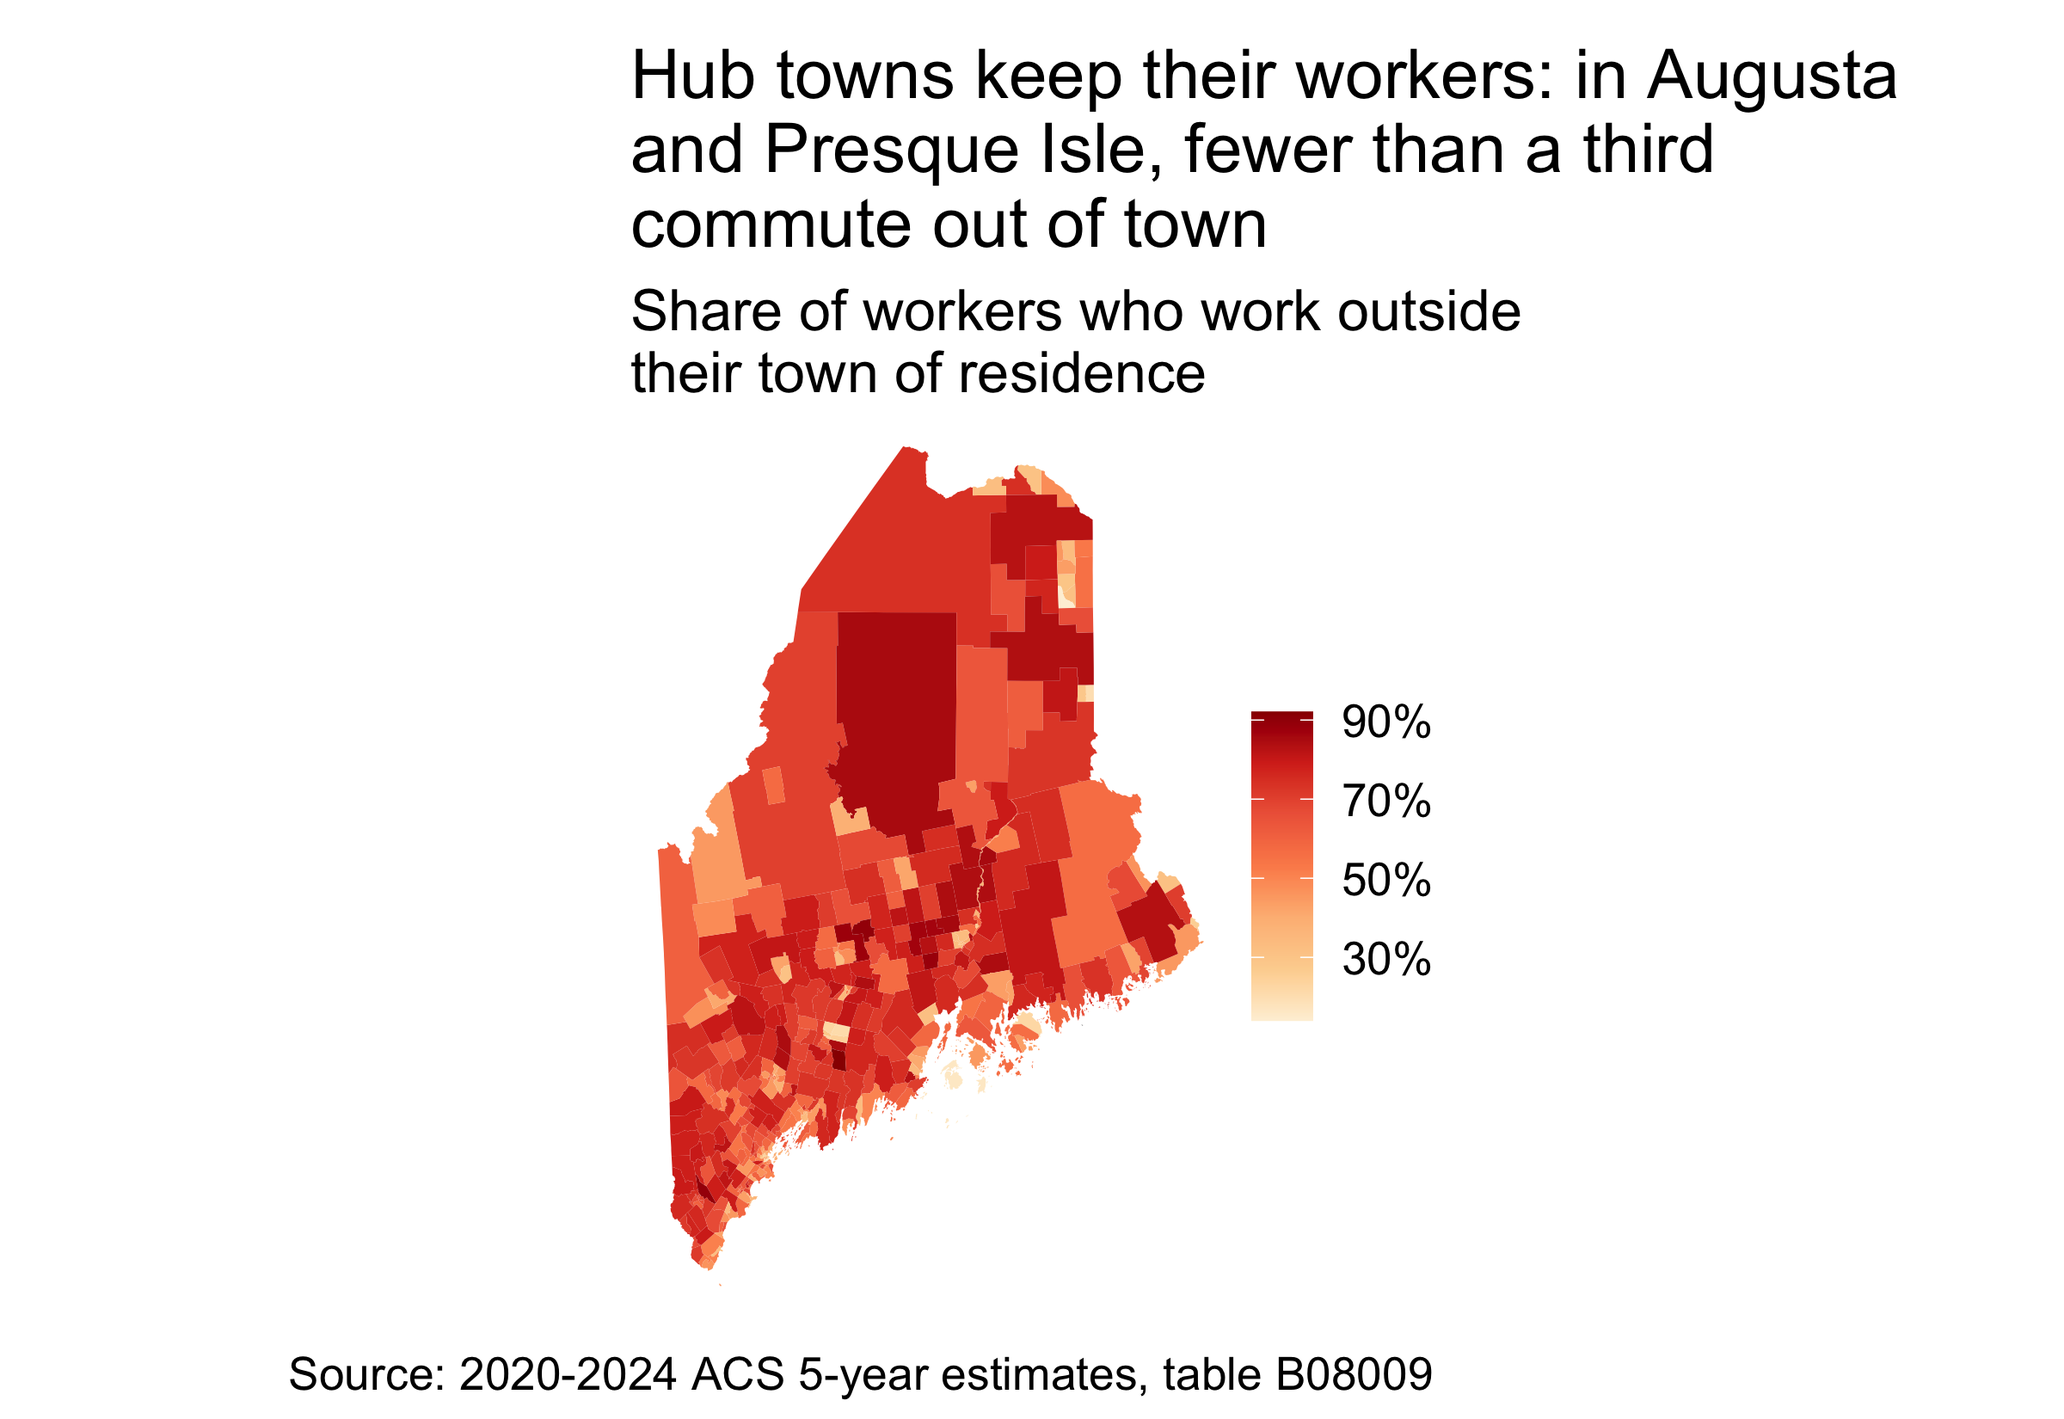
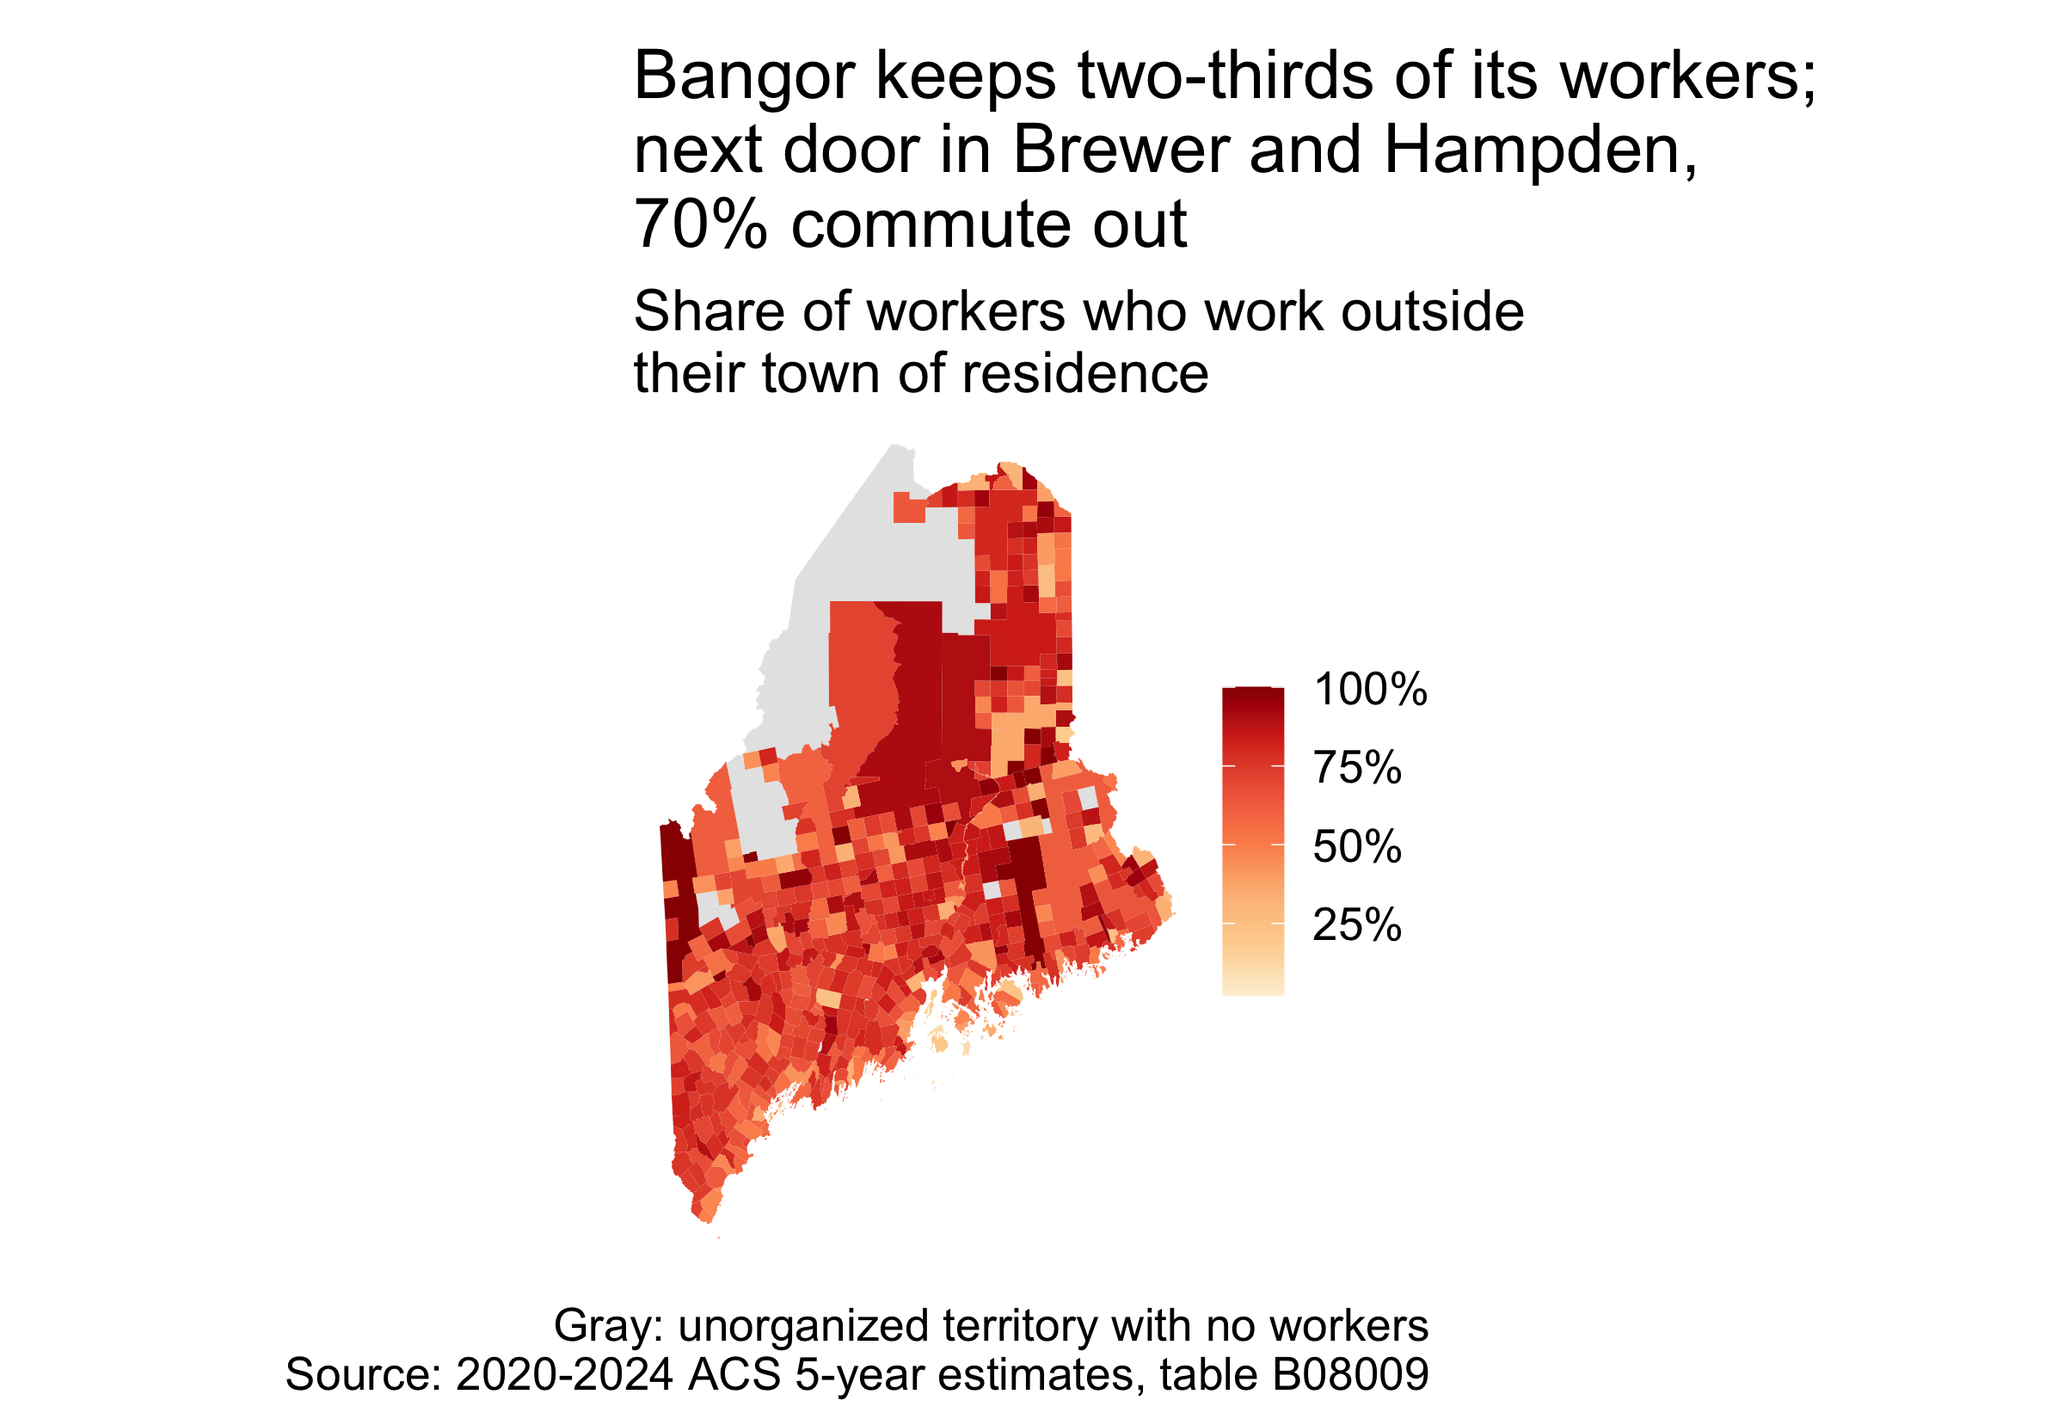
Week 9: Hub Services example uses county subdivisions only (tract version removed)

Changed region(s): [[0.3125, 0.3091, 0.6875, 0.8964], [0.3125, 0.0309, 0.9375, 0.2782], [0.125, 0.9273, 0.6875, 0.9891]]

diff --git a/docs/slides/week09.html b/docs/slides/week09.html
@@ -1234,7 +1234,7 @@ First 10 features:
 <li>NBRC’s service area is a subset of the counties in these states, so let’s trim this down</li>
 </ul>
 </section>
-<section id="which-counties-are-nbrc" class="slide level2">
+<section id="which-counties-are-nbrc" class="slide level2 smaller">
 <h2>Which Counties Are NBRC?</h2>
 <div class="cell" data-layout-align="center">
 <div class="code-copy-outer-scaffold"><div class="sourceCode cell-code" id="cb25"><pre class="sourceCode r code-with-copy"><code class="sourceCode r"><span id="cb25-1"><a aria-hidden="true" tabindex="-1"></a>nbrc_fips <span class="ot">&lt;-</span> <span class="fu">read_csv</span>(</span>
@@ -1260,7 +1260,7 @@ First 10 features:
 </div>
 
 </section>
-<section id="which-counties-are-nbrc-output" class="slide level2 output-location-slide"><h2>Which Counties Are NBRC?</h2><div class="cell output-location-slide" data-layout-align="center">
+<section id="which-counties-are-nbrc-output" class="slide level2 smaller output-location-slide"><h2>Which Counties Are NBRC?</h2><div class="cell output-location-slide" data-layout-align="center">
 <div class="cell-output-display">
 <div class="quarto-figure quarto-figure-center">
 <figure>
@@ -1295,7 +1295,6 @@ First 10 features:
 <li>Pull it with <code>get_acs()</code> for your state’s <strong>counties</strong>, with <code>geometry = TRUE</code></li>
 <li>Turn it into a share, not a count. You’ll need the table’s total line (usually <code>_001</code>) as the denominator.</li>
 <li>Make a choropleth with a readable palette, <code>theme_void()</code>, a title that states what you see, and a source caption</li>
-<li>Change <code>geography</code> to <code>"tract"</code>. Does the story change?</li>
 <li>Look at your margins of error. Is any part of your story shakier than you’d like?</li>
 </ol>
 </section>
@@ -1336,8 +1335,8 @@ First 10 features:
 </div></section><section id="one-way-to-do-it-rural-hub-services" class="slide level2 smaller">
 <h2>One Way to Do It: Rural Hub Services</h2>
 <div class="cell" data-layout-align="center">
-<div class="code-copy-outer-scaffold"><div class="sourceCode cell-code" id="cb28"><pre class="sourceCode r code-with-copy"><code class="sourceCode r"><span id="cb28-1"><a aria-hidden="true" tabindex="-1"></a>me_commute_out <span class="ot">&lt;-</span> <span class="fu">get_acs</span>(</span>
-<span id="cb28-2"><a aria-hidden="true" tabindex="-1"></a>  <span class="at">geography =</span> <span class="st">"tract"</span>,</span>
+<div class="code-copy-outer-scaffold"><div class="sourceCode cell-code" id="cb28"><pre class="sourceCode r code-with-copy"><code class="sourceCode r"><span id="cb28-1"><a aria-hidden="true" tabindex="-1"></a>me_towns <span class="ot">&lt;-</span> <span class="fu">get_acs</span>(</span>
+<span id="cb28-2"><a aria-hidden="true" tabindex="-1"></a>  <span class="at">geography =</span> <span class="st">"county subdivision"</span>,</span>
 <span id="cb28-3"><a aria-hidden="true" tabindex="-1"></a>  <span class="at">state =</span> <span class="st">"ME"</span>,</span>
 <span id="cb28-4"><a aria-hidden="true" tabindex="-1"></a>  <span class="at">variables =</span> <span class="fu">c</span>(<span class="at">total =</span> <span class="st">"B08009_001"</span>, <span class="at">out_of_town =</span> <span class="st">"B08009_004"</span>),</span>
 <span id="cb28-5"><a aria-hidden="true" tabindex="-1"></a>  <span class="at">year =</span> <span class="dv">2024</span>,</span>
@@ -1346,16 +1345,25 @@ First 10 features:
 <span id="cb28-8"><a aria-hidden="true" tabindex="-1"></a>) <span class="sc">|&gt;</span></span>
 <span id="cb28-9"><a aria-hidden="true" tabindex="-1"></a>  <span class="fu">mutate</span>(<span class="at">out_share =</span> out_of_townE <span class="sc">/</span> totalE)</span>
 <span id="cb28-10"><a aria-hidden="true" tabindex="-1"></a></span>
-<span id="cb28-11"><a aria-hidden="true" tabindex="-1"></a><span class="fu">ggplot</span>(me_commute_out) <span class="sc">+</span></span>
+<span id="cb28-11"><a aria-hidden="true" tabindex="-1"></a><span class="fu">ggplot</span>(me_towns) <span class="sc">+</span></span>
 <span id="cb28-12"><a aria-hidden="true" tabindex="-1"></a>  <span class="fu">geom_sf</span>(<span class="fu">aes</span>(<span class="at">fill =</span> out_share), <span class="at">color =</span> <span class="cn">NA</span>) <span class="sc">+</span></span>
 <span id="cb28-13"><a aria-hidden="true" tabindex="-1"></a>  <span class="fu">scale_fill_distiller</span>(<span class="at">palette =</span> <span class="st">"OrRd"</span>, <span class="at">direction =</span> <span class="dv">1</span>,</span>
-<span id="cb28-14"><a aria-hidden="true" tabindex="-1"></a>                       <span class="at">labels =</span> scales<span class="sc">::</span><span class="fu">label_percent</span>(), <span class="at">name =</span> <span class="cn">NULL</span>) <span class="sc">+</span></span>
-<span id="cb28-15"><a aria-hidden="true" tabindex="-1"></a>  <span class="fu">theme_void</span>() <span class="sc">+</span></span>
-<span id="cb28-16"><a aria-hidden="true" tabindex="-1"></a>  <span class="fu">labs</span>(<span class="at">title =</span> <span class="st">"Hub towns keep their workers: in Augusta</span><span class="sc">\n</span><span class="st">and Presque Isle, fewer than a third</span><span class="sc">\n</span><span class="st">commute out of town"</span>,</span>
-<span id="cb28-17"><a aria-hidden="true" tabindex="-1"></a>       <span class="at">subtitle =</span> <span class="st">"Share of workers who work outside</span><span class="sc">\n</span><span class="st">their town of residence"</span>,</span>
-<span id="cb28-18"><a aria-hidden="true" tabindex="-1"></a>       <span class="at">caption =</span> <span class="st">"Source: 2020-2024 ACS 5-year estimates, table B08009"</span>)</span></code></pre></div><button title="Copy to Clipboard" class="code-copy-button"><i class="bi"></i></button></div>
+<span id="cb28-14"><a aria-hidden="true" tabindex="-1"></a>                       <span class="at">labels =</span> scales<span class="sc">::</span><span class="fu">label_percent</span>(), <span class="at">name =</span> <span class="cn">NULL</span>,</span>
+<span id="cb28-15"><a aria-hidden="true" tabindex="-1"></a>                       <span class="at">na.value =</span> <span class="st">"gray90"</span>) <span class="sc">+</span></span>
+<span id="cb28-16"><a aria-hidden="true" tabindex="-1"></a>  <span class="fu">theme_void</span>() <span class="sc">+</span></span>
+<span id="cb28-17"><a aria-hidden="true" tabindex="-1"></a>  <span class="fu">labs</span>(<span class="at">title =</span> <span class="st">"Bangor keeps two-thirds of its workers;</span><span class="sc">\n</span><span class="st">next door in Brewer and Hampden,</span><span class="sc">\n</span><span class="st">70% commute out"</span>,</span>
+<span id="cb28-18"><a aria-hidden="true" tabindex="-1"></a>       <span class="at">subtitle =</span> <span class="st">"Share of workers who work outside</span><span class="sc">\n</span><span class="st">their town of residence"</span>,</span>
+<span id="cb28-19"><a aria-hidden="true" tabindex="-1"></a>       <span class="at">caption =</span> <span class="st">"Gray: unorganized territory with no workers</span><span class="sc">\n</span><span class="st">Source: 2020-2024 ACS 5-year estimates, table B08009"</span>)</span></code></pre></div><button title="Copy to Clipboard" class="code-copy-button"><i class="bi"></i></button></div>
 </div>
 
+<!-- ## Reading These Two Maps {.smaller}
+
+- **Housing**: renters whose income the Census couldn't compute (`_011`) come out of the denominator, so the share is out of renters it could measure
+- **Hub services**: in 84% of Maine towns, most workers leave town for work. The pale spots are where they go: Augusta, Presque Isle, Houlton, Bangor, Portland.
+- **Why towns?** In New England, the **county subdivision** (the town) is often the best unit of analysis. It's how people there think about where they live, and it's the unit B08009 asks about. The table is published only for 12 states with strong town governments, including all four NBRC states.
+- **Why not counties?** The county version of this table (B08007) hides the pattern. A commute from Hampden into Bangor never leaves Penobscot County.
+- **Margins of error**: about half of Maine's towns have fewer than 500 workers, and the typical margin is about ±19 points. Read the big towns with confidence and the small ones with caution.
+- `color = NA` drops the town outlines. With 500+ small polygons, white borders would cover much of the state. -->
 </section>
 <section id="one-way-to-do-it-rural-hub-services-output" class="slide level2 smaller output-location-slide"><h2>One Way to Do It: Rural Hub Services</h2><div class="cell output-location-slide" data-layout-align="center">
 <div class="cell-output-display">
@@ -1365,68 +1373,12 @@ First 10 features:
 </figure>
 </div>
 </div>
-</div></section><section id="reading-these-two-maps" class="slide level2 smaller">
-<h2>Reading These Two Maps</h2>
-<ul>
-<li><strong>Housing</strong>: renters whose income the Census couldn’t compute (<code>_011</code>) come out of the denominator, so the share is out of renters it could measure</li>
-<li><strong>Hub services</strong>: in three out of four Maine tracts, most workers leave their town for work. The pale spots are where they go: Portland, Augusta, Bangor, Presque Isle, Houlton.</li>
-<li><strong>Two units at once.</strong> We mapped <em>tracts</em>, but B08009 asks about <em>towns</em> (Census calls them minor civil divisions). It’s published only for 12 states with strong town governments, including all four NBRC states. Its county-level cousin, B08007, hides all of this, because a commute from Hampden into Bangor never leaves Penobscot County.</li>
-<li><strong>Margins of error</strong> on these tract shares run about ±7 to ±14 points. That’s too wide to rank one tract against its neighbor, but the hub pattern is much bigger than the noise.</li>
-<li><code>color = NA</code> drops the tract outlines. With 400+ small polygons, white borders would cover the southern part of the state.</li>
-</ul>
-</section>
-<section id="same-question-town-by-town" class="slide level2 smaller">
-<h2>Same Question, Town by Town</h2>
-<ul>
-<li>In New England, the <strong>county subdivision</strong> (the town) is often the best unit of analysis. It’s how people there think about where they live, and it’s the unit B08009 actually asks about.</li>
-<li>One argument changes: <code>geography = "county subdivision"</code></li>
-</ul>
-<div class="cell" data-layout-align="center">
-<div class="code-copy-outer-scaffold"><div class="sourceCode cell-code" id="cb29"><pre class="sourceCode r code-with-copy"><code class="sourceCode r"><span id="cb29-1"><a aria-hidden="true" tabindex="-1"></a>me_towns <span class="ot">&lt;-</span> <span class="fu">get_acs</span>(</span>
-<span id="cb29-2"><a aria-hidden="true" tabindex="-1"></a>  <span class="at">geography =</span> <span class="st">"county subdivision"</span>,</span>
-<span id="cb29-3"><a aria-hidden="true" tabindex="-1"></a>  <span class="at">state =</span> <span class="st">"ME"</span>,</span>
-<span id="cb29-4"><a aria-hidden="true" tabindex="-1"></a>  <span class="at">variables =</span> <span class="fu">c</span>(<span class="at">total =</span> <span class="st">"B08009_001"</span>, <span class="at">out_of_town =</span> <span class="st">"B08009_004"</span>),</span>
-<span id="cb29-5"><a aria-hidden="true" tabindex="-1"></a>  <span class="at">year =</span> <span class="dv">2024</span>,</span>
-<span id="cb29-6"><a aria-hidden="true" tabindex="-1"></a>  <span class="at">output =</span> <span class="st">"wide"</span>,</span>
-<span id="cb29-7"><a aria-hidden="true" tabindex="-1"></a>  <span class="at">geometry =</span> <span class="cn">TRUE</span></span>
-<span id="cb29-8"><a aria-hidden="true" tabindex="-1"></a>) <span class="sc">|&gt;</span></span>
-<span id="cb29-9"><a aria-hidden="true" tabindex="-1"></a>  <span class="fu">mutate</span>(<span class="at">out_share =</span> out_of_townE <span class="sc">/</span> totalE)</span>
-<span id="cb29-10"><a aria-hidden="true" tabindex="-1"></a></span>
-<span id="cb29-11"><a aria-hidden="true" tabindex="-1"></a><span class="fu">ggplot</span>(me_towns) <span class="sc">+</span></span>
-<span id="cb29-12"><a aria-hidden="true" tabindex="-1"></a>  <span class="fu">geom_sf</span>(<span class="fu">aes</span>(<span class="at">fill =</span> out_share), <span class="at">color =</span> <span class="cn">NA</span>) <span class="sc">+</span></span>
-<span id="cb29-13"><a aria-hidden="true" tabindex="-1"></a>  <span class="fu">scale_fill_distiller</span>(<span class="at">palette =</span> <span class="st">"OrRd"</span>, <span class="at">direction =</span> <span class="dv">1</span>,</span>
-<span id="cb29-14"><a aria-hidden="true" tabindex="-1"></a>                       <span class="at">labels =</span> scales<span class="sc">::</span><span class="fu">label_percent</span>(), <span class="at">name =</span> <span class="cn">NULL</span>,</span>
-<span id="cb29-15"><a aria-hidden="true" tabindex="-1"></a>                       <span class="at">na.value =</span> <span class="st">"gray90"</span>) <span class="sc">+</span></span>
-<span id="cb29-16"><a aria-hidden="true" tabindex="-1"></a>  <span class="fu">theme_void</span>() <span class="sc">+</span></span>
-<span id="cb29-17"><a aria-hidden="true" tabindex="-1"></a>  <span class="fu">labs</span>(<span class="at">title =</span> <span class="st">"Bangor keeps two-thirds of its workers;</span><span class="sc">\n</span><span class="st">next door in Brewer and Hampden,</span><span class="sc">\n</span><span class="st">70% commute out"</span>,</span>
-<span id="cb29-18"><a aria-hidden="true" tabindex="-1"></a>       <span class="at">subtitle =</span> <span class="st">"Share of workers who work outside</span><span class="sc">\n</span><span class="st">their town of residence"</span>,</span>
-<span id="cb29-19"><a aria-hidden="true" tabindex="-1"></a>       <span class="at">caption =</span> <span class="st">"Gray: unorganized territory with no workers</span><span class="sc">\n</span><span class="st">Source: 2020-2024 ACS 5-year estimates, table B08009"</span>)</span></code></pre></div><button title="Copy to Clipboard" class="code-copy-button"><i class="bi"></i></button></div>
-</div>
-
-</section>
-<section id="same-question-town-by-town-output" class="slide level2 smaller output-location-slide"><h2>Same Question, Town by Town</h2><div class="cell output-location-slide" data-layout-align="center">
-<div class="cell-output-display">
-<div class="quarto-figure quarto-figure-center">
-<figure>
-<p><img data-src="week09_files/figure-revealjs/unnamed-chunk-31-1.png" class="quarto-figure quarto-figure-center" style="width:70.0%"></p>
-</figure>
-</div>
-</div>
-</div></section><section id="tracts-or-towns" class="slide level2">
-<h2>Tracts or Towns?</h2>
-<ul>
-<li>Towns match the question. Bangor’s 34% is one number for one hub town, not an average of tracts that cross town lines.</li>
-<li>But Maine has about 530 towns and only about 400 tracts, and many towns have just a few hundred workers. The typical town’s margin of error is about ±19 points, compared with about ±12 for a tract.</li>
-<li>That’s why the town map looks speckled: some pale spots in Aroostook are tiny towns, not hubs. Read the big towns with confidence and the small ones with caution.</li>
-<li><strong>There’s no single right unit.</strong> Pick the one that matches your question, then check whether your margins of error can carry the story.</li>
-</ul>
-</section>
-<section id="before-next-class-nov.-5" class="slide level2 smaller">
+</div></section><section id="before-next-class-nov.-5" class="slide level2 smaller">
 <h2>Before Next Class (Nov.&nbsp;5)</h2>
 <ul class="task-list">
 <li><label><input type="checkbox"><strong>HW3</strong> is due <strong>Sunday, Nov.&nbsp;1</strong> at 11:59pm</label></li>
 <li><label><input type="checkbox"><strong>Reading</strong>: <a href="https://r-spatial.org/book/"><em>Spatial Data Science</em></a>, skim Chapters 1-3</label></li>
-<li><label><input type="checkbox">Keep your <code>week09.R</code> script. Next week builds on it.</label></li>
+<li><label><input type="checkbox">If you’ve been following along using <code>week09.R</code> script, keep it/save it. Next week builds on it. (if not, don’t worry!)</label></li>
 <li><label><input type="checkbox"><strong>Next week</strong>: point data (turning a spreadsheet of addresses or coordinates into a map), spatial joins, and the finishing touches that make a map publication-ready (scale bars, north arrows, insets)</label></li>
 </ul>
 </section>
